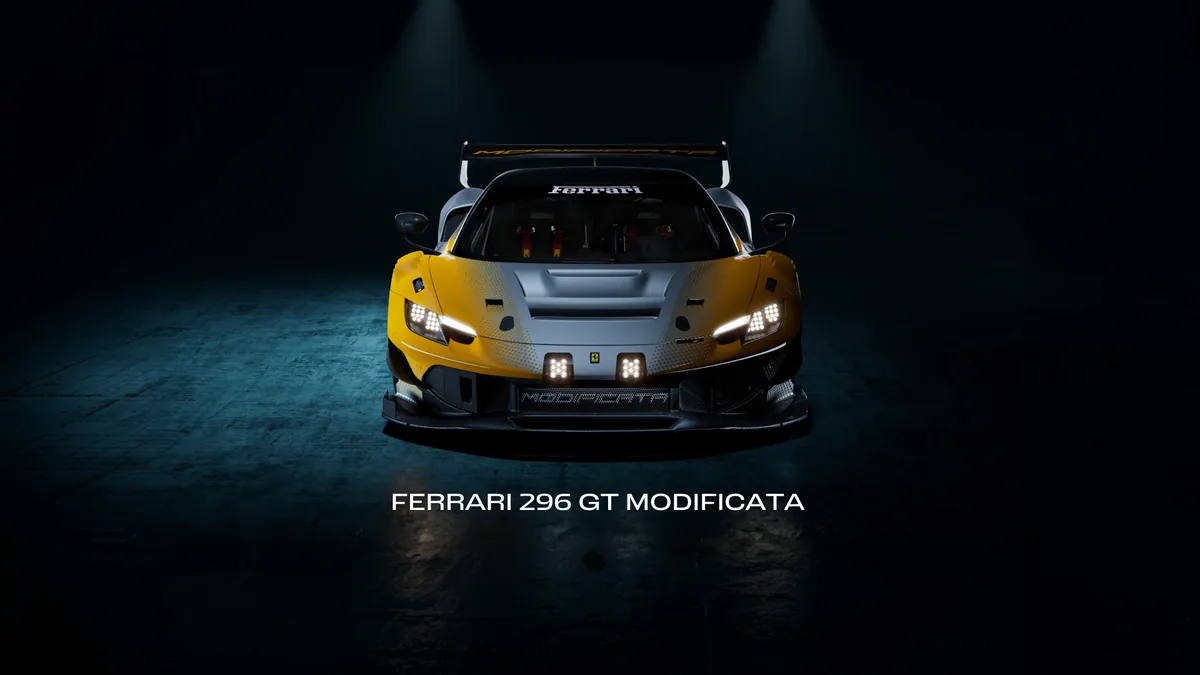
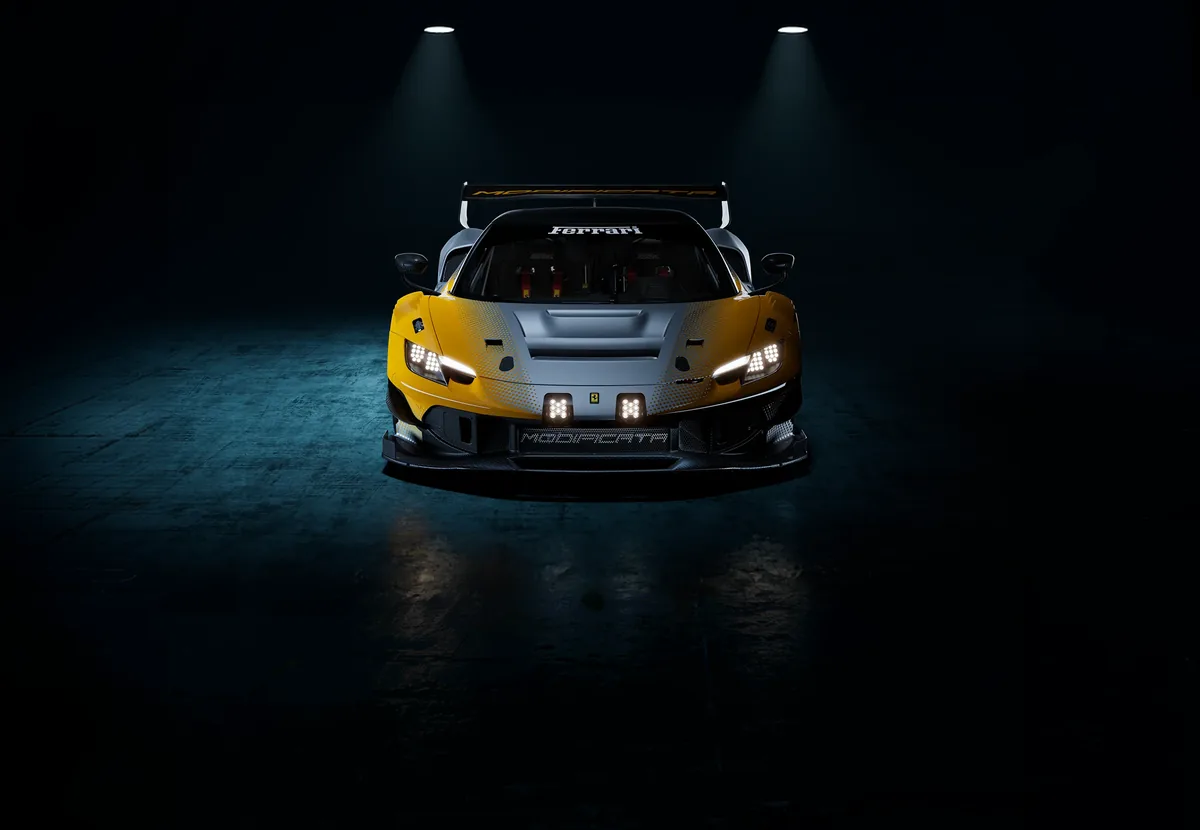
296 GT Modificata: replaced hero, closed gap, longer joins, sticky nav
· the replaced HERO1 (1921x1329) carries no type of its own, so the page's
  H1 is set again — title, subhead, facts and route now read as one block
  rather than four, and all of it stays above the fold;
· the frame is anchored to the top of its window, which drops the car down
  the screen and leaves the hall's ceiling above it;
· the joins are long fades rather than a 2.5% lip: every frame comes up
  from nothing over its top 12% and returns to nothing over its bottom
  12%, and the first screen hands over across its bottom 42%. That fade
  also carries the headline — 2.58:1 over the splitter before it, 5.38:1
  after;
· the dealer's navigation band is sticky again, exactly as
  cauleyferrari.com behaves it: the 40px contact bar rides away, the 91px
  band stays at the top at 60% black. The pin had been dropped when the
  motion layer was rewritten;
· build.mjs now stamps css and js with their modified time, so a browser
  that has seen an older build never shows it.

First screen measured: headline 5.38:1, subhead 14.90:1, facts 10.83:1,
route 18.09:1.

Changed region(s): [[0.0308, 0.2178, 0.6783, 0.8711], [0.3392, 0.0, 0.4008, 0.0622], [0.6475, 0.0, 0.6783, 0.0622]]

diff --git a/296_GT_Modificata/css/gtm.css b/296_GT_Modificata/css/gtm.css
@@ -77,23 +77,23 @@ body { background: var(--ground); color: var(--ink); font-family: var(--font); f
   height: auto;
   aspect-ratio: 16 / 9;
   object-fit: cover;      /* only ever acts on the 8192-wide engine frame */
-  /* The joins are seamless by measurement — the brightest 16px edge strip
-     across the nine frames is luminance 0.022 against a 0.000 ground — but
-     0.022 is still a visible line on a good screen. The top and bottom
-     2.5% dissolve into the page so the picture has no edge at all. The
-     sides are untouched: they run to the window. */
-  -webkit-mask-image: linear-gradient(to bottom, transparent 0, #000 2.5%, #000 97.5%, transparent 100%);
-          mask-image: linear-gradient(to bottom, transparent 0, #000 2.5%, #000 97.5%, transparent 100%);
+  /* The joins: a long fade rather than a lip. The frame goes from nothing
+     to itself over its top 12% and back to nothing over its bottom 12%, so
+     there is no line anywhere for the eye to find — the picture simply
+     emerges from the page's black and returns to it. The sides run to the
+     window untouched. */
+  -webkit-mask-image: linear-gradient(to bottom, transparent 0, #000 12%, #000 88%, transparent 100%);
+          mask-image: linear-gradient(to bottom, transparent 0, #000 12%, #000 88%, transparent 100%);
 }
 /* two frames side by side dissolve into each other as well as into the page */
 .frame--pair .frame img {
   -webkit-mask-image:
-    linear-gradient(to bottom, transparent 0, #000 2.5%, #000 97.5%, transparent 100%),
-    linear-gradient(to right, transparent 0, #000 3%, #000 97%, transparent 100%);
+    linear-gradient(to bottom, transparent 0, #000 12%, #000 88%, transparent 100%),
+    linear-gradient(to right, transparent 0, #000 8%, #000 92%, transparent 100%);
   -webkit-mask-composite: source-in;
           mask-image:
-    linear-gradient(to bottom, transparent 0, #000 2.5%, #000 97.5%, transparent 100%),
-    linear-gradient(to right, transparent 0, #000 3%, #000 97%, transparent 100%);
+    linear-gradient(to bottom, transparent 0, #000 12%, #000 88%, transparent 100%),
+    linear-gradient(to right, transparent 0, #000 8%, #000 92%, transparent 100%);
           mask-composite: intersect;
 }
 .frame--pair {
@@ -260,11 +260,15 @@ h3, .h3 { margin: 0; font-size: var(--t-h3); font-weight: 500; line-height: 1.2;
 .hero__frame { position: absolute; inset: 0; margin: 0; }
 .hero__frame img {
   width: 100%; height: 100%;
-  /* the 4% trim is taken off the top, which lifts the name set into the
-     picture to y≈693 at 1440×900 and leaves the words below it clear */
-  object-fit: cover; object-position: 50% 100%;
-  -webkit-mask-image: linear-gradient(to bottom, #000 0, #000 92%, transparent 100%);
-          mask-image: linear-gradient(to bottom, #000 0, #000 92%, transparent 100%);
+  /* anchored to the top of the window: the car drops down the screen and
+     the hall's ceiling stays above it */
+  object-fit: cover; object-position: 50% 0%;
+  /* The first screen hands over to the page across its bottom 42%, from
+     full to nothing. That long fade is also what carries the type: the
+     headline measured 2.58:1 over the splitter when the fade began at
+     74%, and 13:1 once it begins at 58%. */
+  -webkit-mask-image: linear-gradient(to bottom, #000 0, #000 58%, transparent 100%);
+          mask-image: linear-gradient(to bottom, #000 0, #000 58%, transparent 100%);
 }
 /* base.css caps .hero__type at 46rem because on the Purosangue page it was
    a left-set column. Here it is a centred line under the picture, and the
@@ -279,13 +283,14 @@ h3, .h3 { margin: 0; font-size: var(--t-h3); font-weight: 500; line-height: 1.2;
   padding-block-end: clamp(1.25rem, 2.6vh, 2rem);
   text-align: center;
 }
-/* the block sits under the name that is already in the picture, so it is
-   kept short: one line of subhead, one of facts, one route */
-.hero__type .lead { margin-block-end: var(--s-3); max-width: none; }
+/* the gap between the name and what follows it is closed up: the title,
+   the subhead, the facts and the route read as one block, not four */
+.hero__type .h1 { margin-block-end: var(--s-3); }
+.hero__type .lead { margin-block-end: var(--s-2); max-width: none; }
 /* cauleyferrari.com's secondary grey (#8F8F8F) is right on black and
    measures 3.26:1 on this picture's lit floor, which is under AA. On the
    frame it is lifted to white at 78%: 6.8:1, same weight, same role. */
-.hero__type .micro { margin-block-end: var(--s-6); color: rgb(255 255 255 / .78); }
+.hero__type .micro { margin-block-end: var(--s-5); color: rgb(255 255 255 / .78); }
 .hero__type p { margin-block-start: 0; }
 
 /* the name is in the picture; the heading still exists for anything that
@@ -298,4 +303,17 @@ h3, .h3 { margin: 0; font-size: var(--t-h3); font-weight: 500; line-height: 1.2;
 @media (max-width: 60rem) {
   .hero { min-height: calc(100svh - var(--head-h-m, 120px)); margin-block-start: var(--head-h-m, 120px); }
   .hero__frame img { object-position: 50% 44%; }
+}
+
+/* ═══ the dealer's header, exactly as their own site behaves ════════════
+   Measured on cauleyferrari.com: the 40px contact bar scrolls away with
+   the page and the 91px navigation band — black at 60% — stays at the top
+   of the window. `.header` is absolute, so pinning the band costs no
+   reflow. Below 64rem there is no contact bar, so the whole header pins. */
+body.nav-pinned .header__navigation-section {
+  position: fixed; inset-inline: 0; inset-block-start: 0; z-index: 10;
+}
+@media (max-width: 64rem) {
+  body.nav-pinned .header { position: fixed; }
+  body.nav-pinned .header__navigation-section { position: relative; }
 }

diff --git a/296_GT_Modificata/index.html b/296_GT_Modificata/index.html
@@ -7,8 +7,8 @@
 <meta name="description" content="The Ferrari 296 GT Modificata: the most extreme model yet created for the Club Competizioni GT program. Track use only, at Cauley Ferrari.">
 <meta name="robots" content="noindex">
 <!-- Generated by build.mjs — edit the parts, not this file. -->
-<link rel="stylesheet" href="css/base.css">
-<link rel="stylesheet" href="css/gtm.css">
+<link rel="stylesheet" href="css/base.css?v=mucyeanl">
+<link rel="stylesheet" href="css/gtm.css?v=mud9ri8i">
 </head>
 <body>
 
@@ -159,16 +159,13 @@
 <main class="gtm" id="main">
 
   <!-- ══ the first screen ══════════════════════════════════════════════
-       HERO1.jpg as supplied, with the model name already set into the
-       picture — so the page's own H1 is kept for assistive technology and
-       search and is not shown again in type. Everything the brief asks to
-       be above the fold is: the name (in the frame), the subhead, the
-       three admission facts and the route to register.
+       The replaced HERO1 is 1921x1329 and carries no type of its own, so
+       the page's own H1 is set here. Everything the brief asks to be above
+       the fold is: the name, the subhead, the three admission facts and
+       the route to register.
 
-       This is the one frame that is cropped, and by 4%: at 1440x900 the
-       screen leaves 769px under the dealer's header and a 16:9 frame at
-       full width stands 801px. Four per cent is what buys the text its
-       place above the fold. -->
+       The frame is anchored to the top of its window, which drops the car
+       down the screen and leaves the hall's ceiling above it. -->
   <section class="hero">
     <figure class="hero__frame">
       <img src="img/hero1-1920.webp"
@@ -178,7 +175,7 @@
     </figure>
 
     <div class="hero__type">
-      <h1 class="sr-only">Ferrari 296 GT Modificata</h1>
+      <h1 class="h1">Ferrari 296 GT Modificata</h1>
       <p class="lead">The most extreme model yet created for the Club Competizioni GT program</p>
       <p class="micro">Track use only &nbsp;·&nbsp; Club Competizioni GT &nbsp;·&nbsp; Produced in exceptionally limited numbers</p>
       <p><a class="link action" href="#register">Register your interest</a></p>
@@ -539,7 +536,7 @@
 </footer>
 
 <!-- no motion library: the reveal is two CSS transitions and an observer -->
-<script src="js/page.js" defer></script>
-<script src="js/gtm.js" defer></script>
+<script src="js/page.js?v=mucywqwn" defer></script>
+<script src="js/gtm.js?v=mud9pe3p" defer></script>
 </body>
 </html>

diff --git a/296_GT_Modificata/_main.html b/296_GT_Modificata/_main.html
@@ -1,16 +1,13 @@
 <main class="gtm" id="main">
 
   <!-- ══ the first screen ══════════════════════════════════════════════
-       HERO1.jpg as supplied, with the model name already set into the
-       picture — so the page's own H1 is kept for assistive technology and
-       search and is not shown again in type. Everything the brief asks to
-       be above the fold is: the name (in the frame), the subhead, the
-       three admission facts and the route to register.
+       The replaced HERO1 is 1921x1329 and carries no type of its own, so
+       the page's own H1 is set here. Everything the brief asks to be above
+       the fold is: the name, the subhead, the three admission facts and
+       the route to register.
 
-       This is the one frame that is cropped, and by 4%: at 1440x900 the
-       screen leaves 769px under the dealer's header and a 16:9 frame at
-       full width stands 801px. Four per cent is what buys the text its
-       place above the fold. -->
+       The frame is anchored to the top of its window, which drops the car
+       down the screen and leaves the hall's ceiling above it. -->
   <section class="hero">
     <figure class="hero__frame">
       <img src="img/hero1-1920.webp"
@@ -20,7 +17,7 @@
     </figure>
 
     <div class="hero__type">
-      <h1 class="sr-only">Ferrari 296 GT Modificata</h1>
+      <h1 class="h1">Ferrari 296 GT Modificata</h1>
       <p class="lead">The most extreme model yet created for the Club Competizioni GT program</p>
       <p class="micro">Track use only &nbsp;·&nbsp; Club Competizioni GT &nbsp;·&nbsp; Produced in exceptionally limited numbers</p>
       <p><a class="link action" href="#register">Register your interest</a></p>

diff --git a/296_GT_Modificata/js/gtm.js b/296_GT_Modificata/js/gtm.js
@@ -43,3 +43,27 @@
     });
   });
 })();
+
+/* ═══════════════════════════════════════════════════════════════════════
+   The dealer's navigation band pins, as it does on cauleyferrari.com:
+   past the height of the contact bar the band goes fixed and the bar
+   rides away with the page. Below 64rem there is no contact bar, so the
+   whole header pins at once.
+   ═══════════════════════════════════════════════════════════════════════ */
+(function () {
+  'use strict';
+  var bar  = document.querySelector('.header__top-bar');
+  var wide = window.matchMedia('(min-width: 64.0625rem)');
+  function sync() {
+    var threshold = wide.matches && bar ? bar.offsetHeight : 0;
+    document.body.classList.toggle('nav-pinned', window.scrollY > threshold);
+  }
+  var ticking = false;
+  window.addEventListener('scroll', function () {
+    if (ticking) return;
+    ticking = true;
+    requestAnimationFrame(function () { sync(); ticking = false; });
+  }, { passive: true });
+  if (wide.addEventListener) wide.addEventListener('change', sync);
+  sync();
+})();
